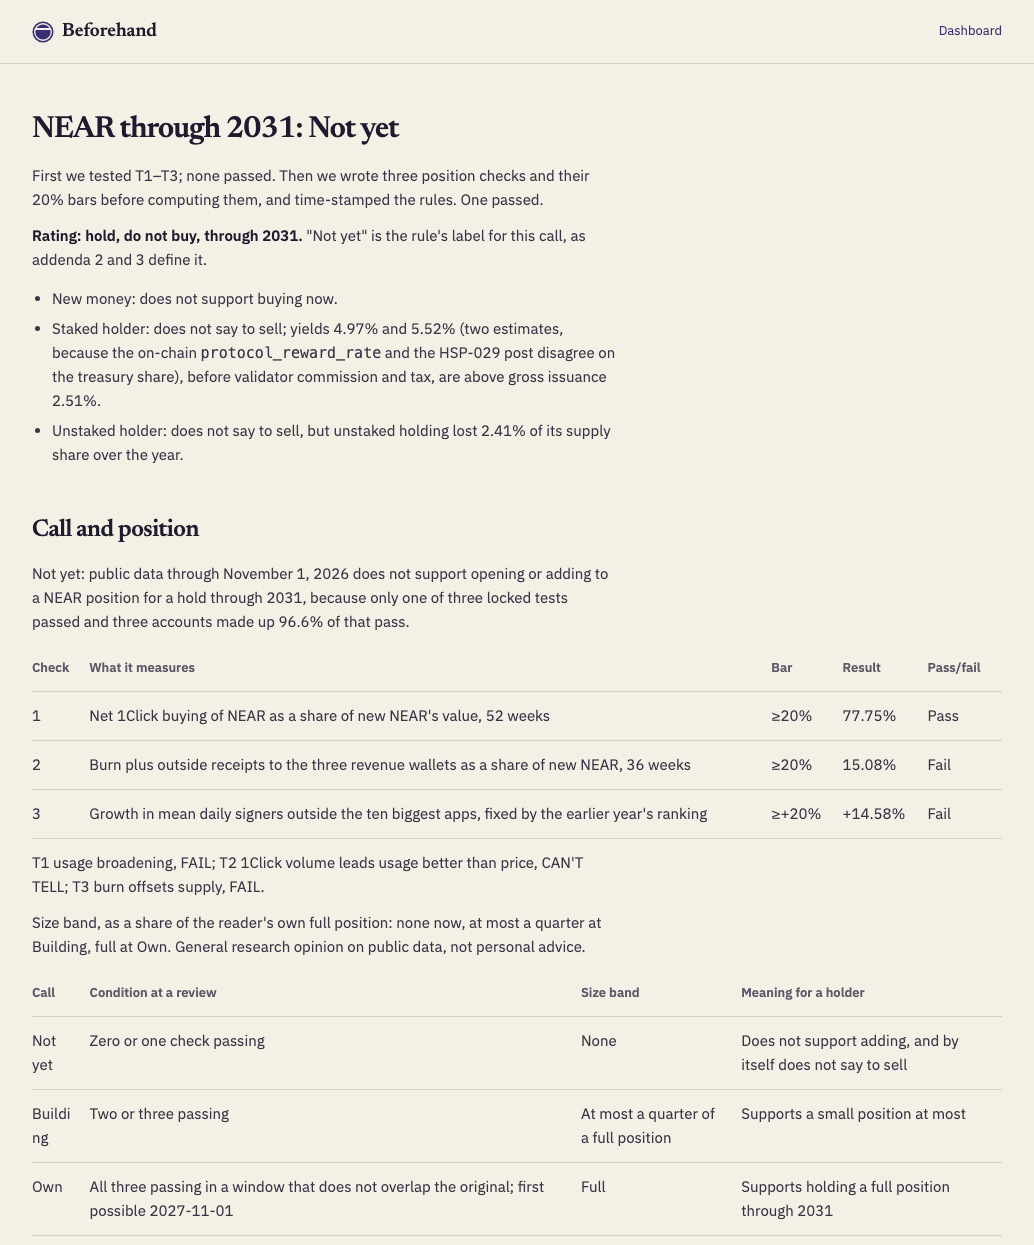
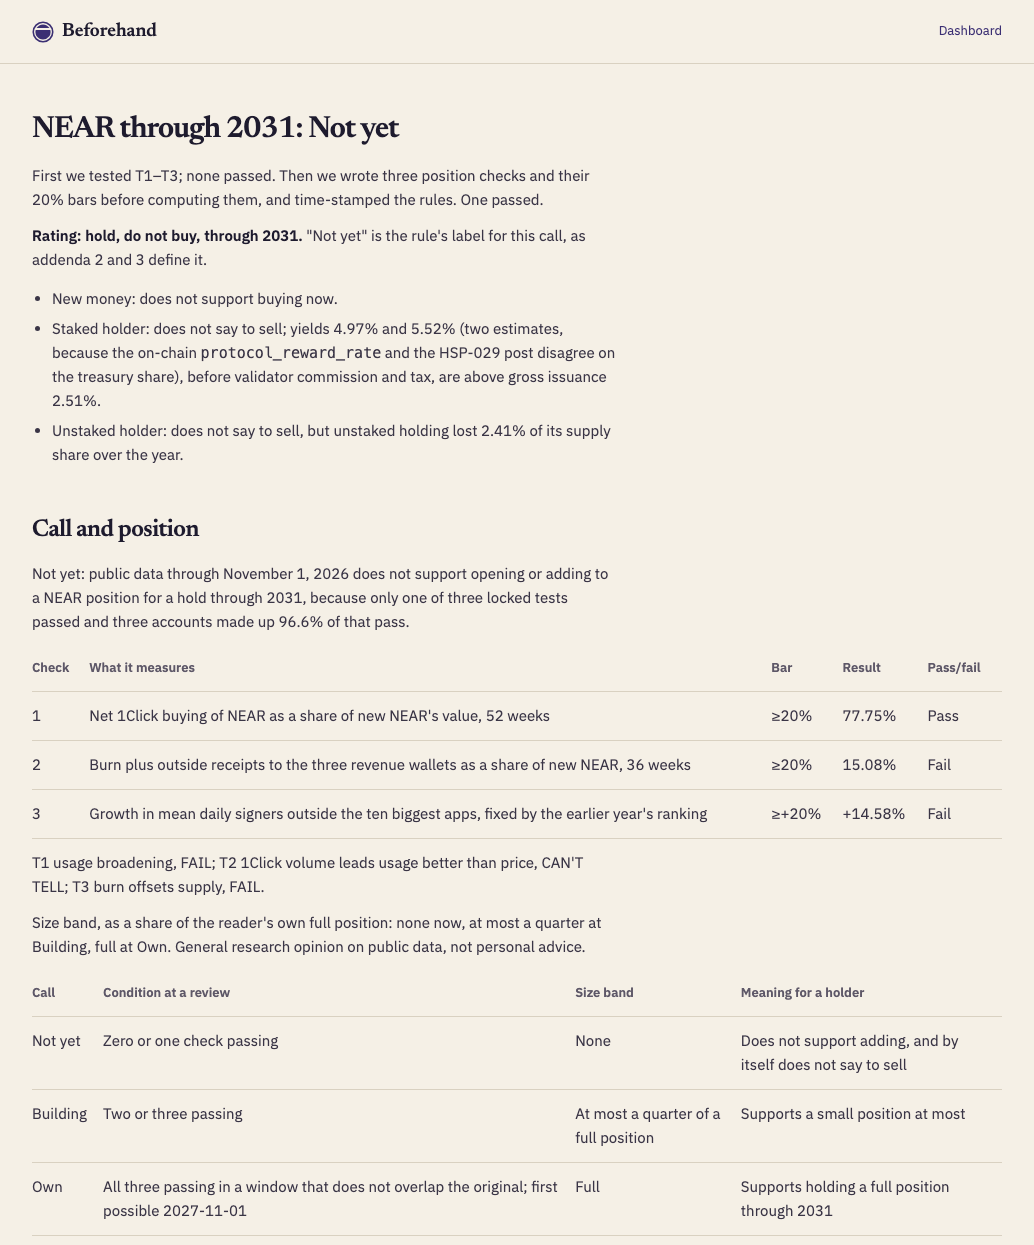
Stop chart labels overlapping and table words splitting mid-word
The T2 charts drew "Excluded from T2 test" 14 px below the unit label in
the same corner. It now sits top right as "Shaded: excluded from T2
test". Table cells used overflow-wrap: anywhere, which let the browser
squeeze columns until words like "Building" split; break-word keeps
words whole, and every table already scrolls inside its own wrapper.
Screenshots 04 and 07 are retaken.

diff --git a/dashboard/style.css b/dashboard/style.css
@@ -99,8 +99,7 @@ table { width: 100%; border-collapse: collapse; font-variant-numeric: tabular-nu
 caption { text-align: left; color: var(--secondary); font-size: 13px; padding-bottom: 12px; }
 th { font-size: 13px; font-weight: 600; color: var(--secondary); }
 td, th { padding: 12px 16px 12px 0; border-bottom: 1px solid var(--border); vertical-align: top; }
-td { overflow-wrap: anywhere; }
-.hypotheses td:last-child { overflow-wrap: normal; }
+td { overflow-wrap: break-word; }
 .chart-section td:last-child, .chart-section th:last-child { text-align: right; }
 dt { margin-top: 16px; }
 dd { margin: 8px 0 24px; max-width: 65ch; }

diff --git a/web/style.css b/web/style.css
@@ -99,8 +99,7 @@ table { width: 100%; border-collapse: collapse; font-variant-numeric: tabular-nu
 caption { text-align: left; color: var(--secondary); font-size: 13px; padding-bottom: 12px; }
 th { font-size: 13px; font-weight: 600; color: var(--secondary); }
 td, th { padding: 12px 16px 12px 0; border-bottom: 1px solid var(--border); vertical-align: top; }
-td { overflow-wrap: anywhere; }
-.hypotheses td:last-child { overflow-wrap: normal; }
+td { overflow-wrap: break-word; }
 .chart-section td:last-child, .chart-section th:last-child { text-align: right; }
 dt { margin-top: 16px; }
 dd { margin: 8px 0 24px; max-width: 65ch; }

diff --git a/VALIDATION.md b/VALIDATION.md
@@ -78,7 +78,7 @@ Run over all 7,513 saved pages after `complete.json` was written (2026-11-09T12:
 - Axe-core 4.12.1 (`wcag2a,wcag2aa`) reports zero violations on the responsive dashboard harness and thesis page. An initial wide-table keyboard-focus finding was fixed with focusable table wrappers. Offscreen table cells remain marked incomplete for automated contrast review; computed foreground/background checks give a minimum 4.63:1 for both dashboard result tables and thesis tables, above 4.5:1.
 - The two result tables in the rules section have no height limit; at every harness width their scroll height equals their visible height (the sensitivity table is 412 px at 1280 px), so no row hides behind an inner scrollbar. The long values tables in the expandable sections keep the 400 px limit.
 - The real **See the evidence** link sets `#signers` and scrolls the first chart to y=47.75 after smooth scrolling settles.
-- Seven real screenshots in `docs/screens/` were captured from the final rebuilt pages at the browser pane's native size, not from the layout harness. They are 89,970–190,822 bytes each, below 400 KB, and have one-sentence captions in README. After the result-table and first-screen fixes, 01–06 were retaken from the final build; 07 was recaptured and was byte-identical, so it was kept. On 2026-11-14, all seven were retaken after the heading rewrite and the Beforehand look, with headless Chrome at 1034×1245 and device scale 1, each scrolled to the same section as before.
+- Seven real screenshots in `docs/screens/` were captured from the final rebuilt pages at the browser pane's native size, not from the layout harness. They are 89,970–189,980 bytes each, below 400 KB, and have one-sentence captions in README. After the result-table and first-screen fixes, 01–06 were retaken from the final build; 07 was recaptured and was byte-identical, so it was kept. On 2026-11-14, all seven were retaken after the heading rewrite and the Beforehand look, with headless Chrome at 1034×1245 and device scale 1, each scrolled to the same section as before.
 - During validation, the artifact-equality CLI test caught HTML generated before the table-focus change. Rebuilding the generated output resolved the mismatch; the final full suite passes all 45 tests.
 
 ## Clean-clone rebuild
